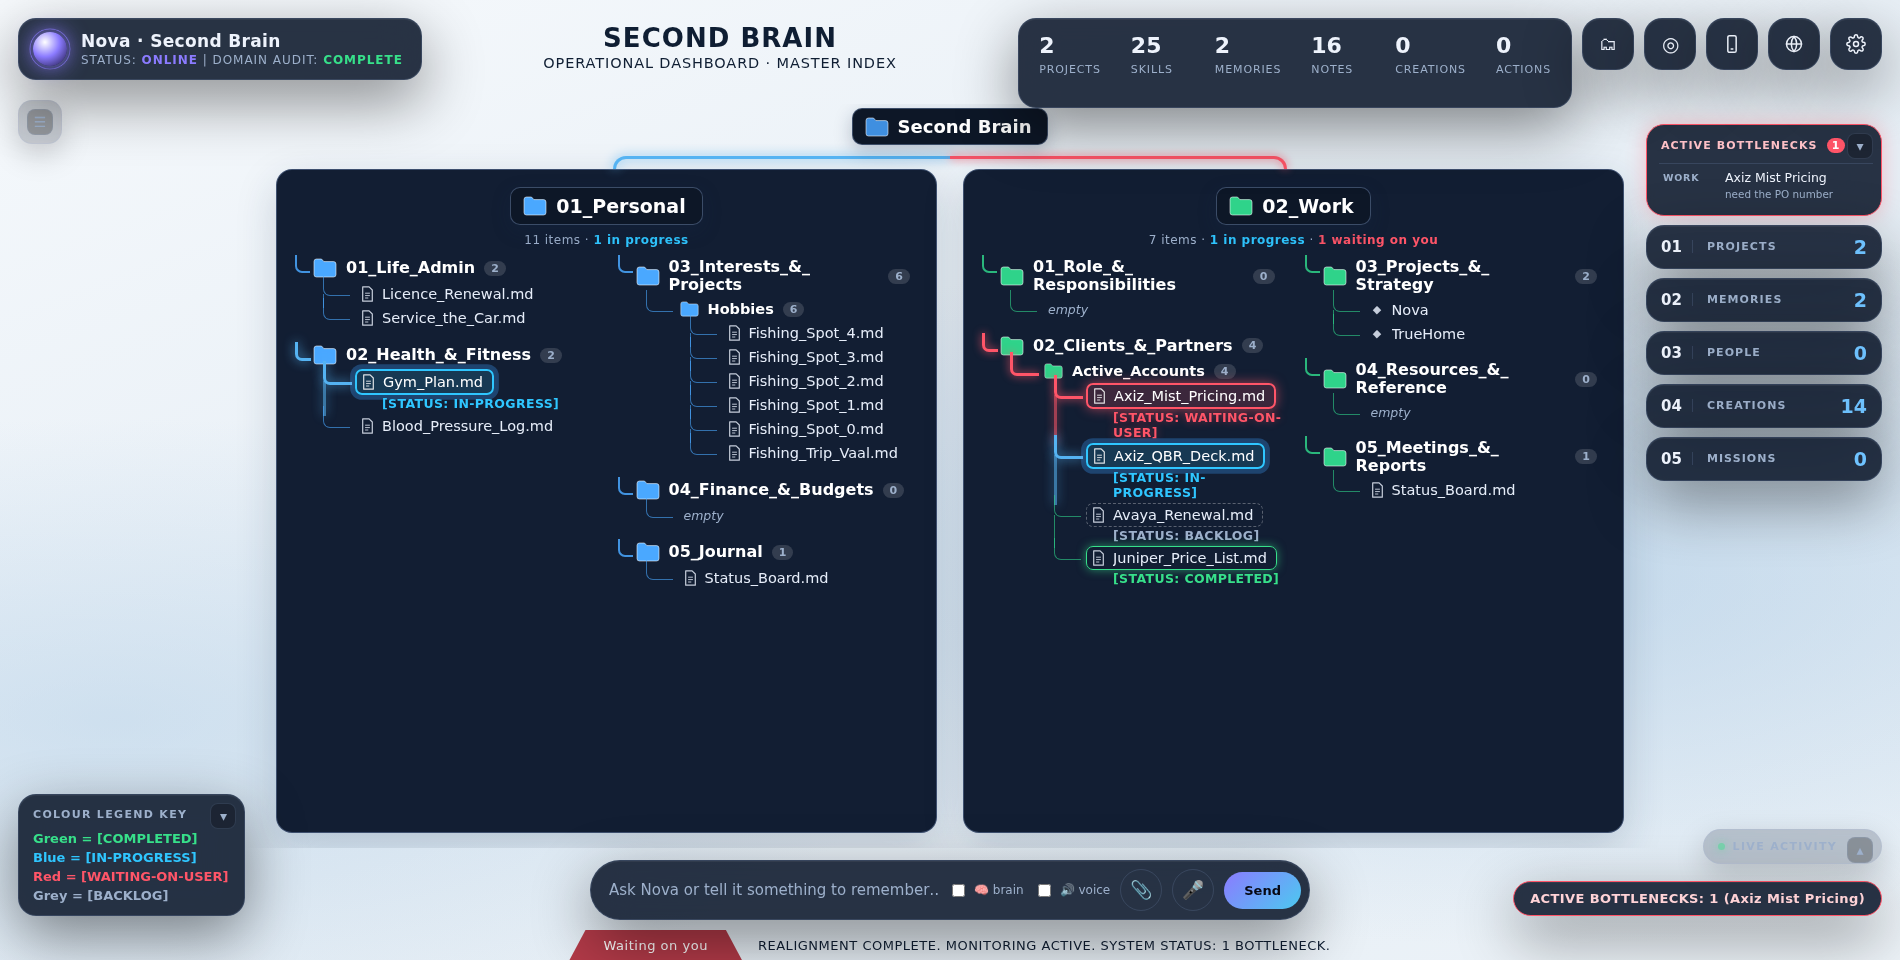
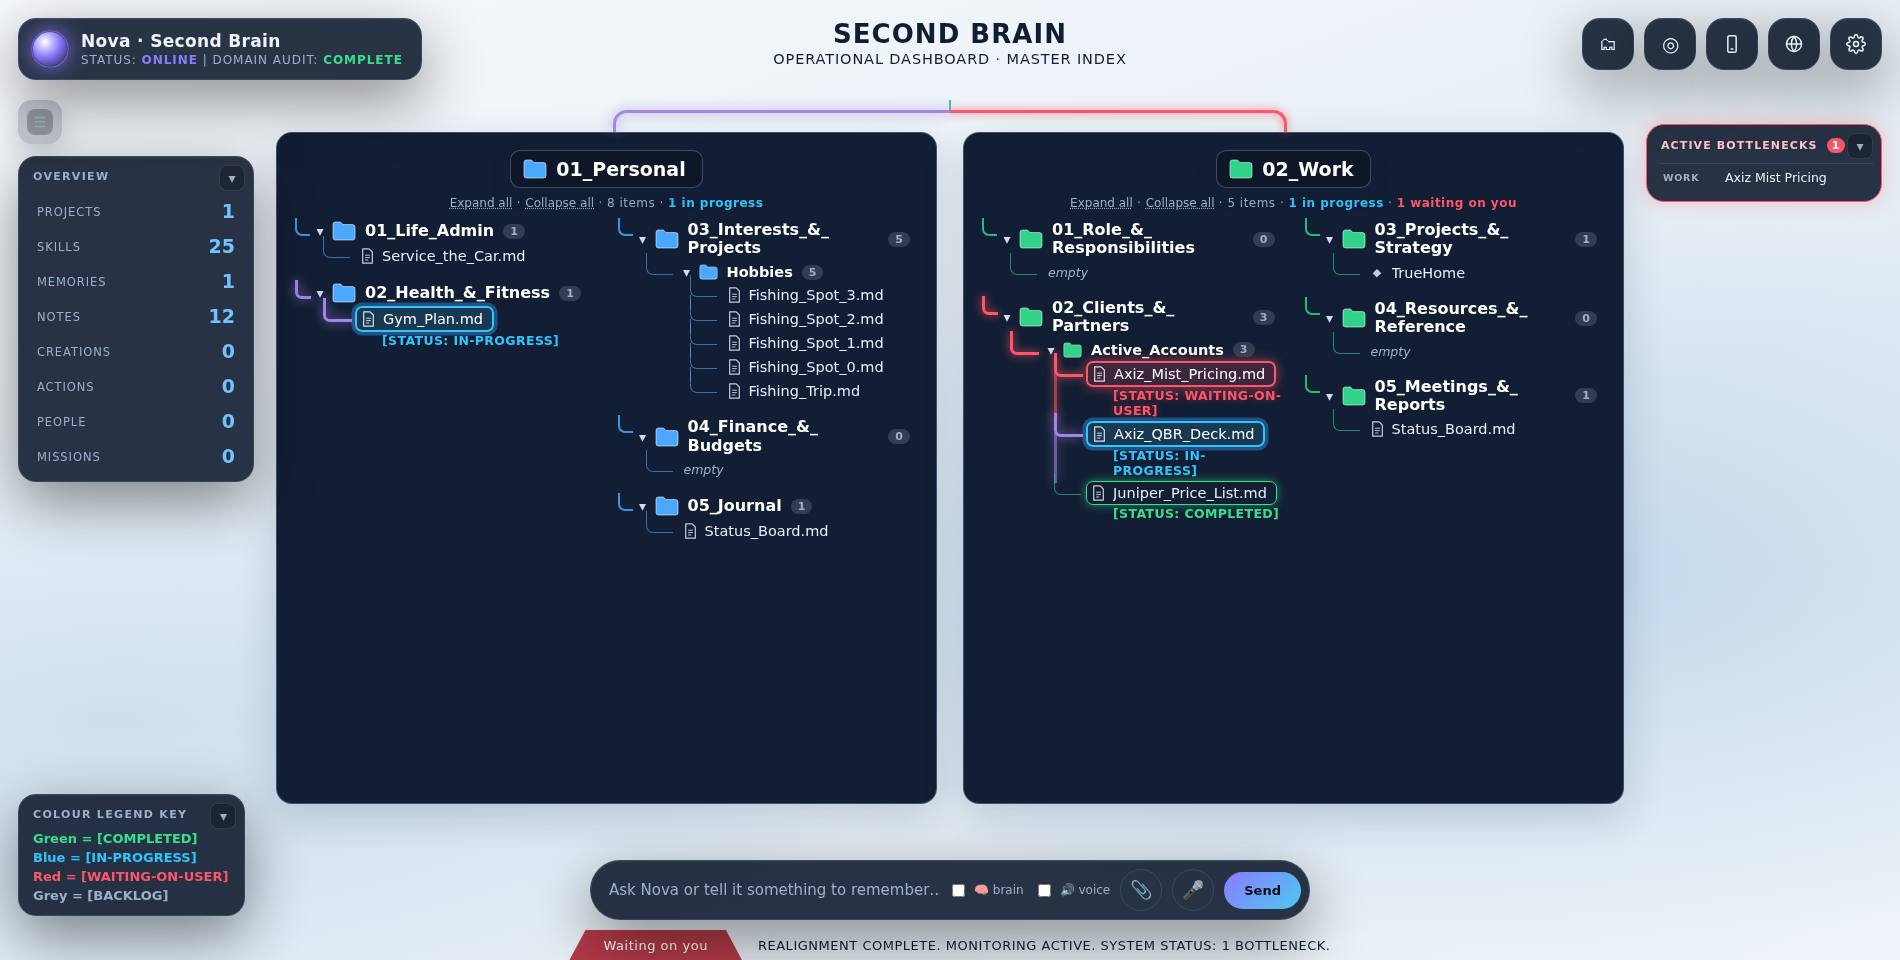
v2.20.0: master index tidy-up — live activity removed, overview block on the left (minimisable), title top-centre, one bottleneck block
Claude-Session: https://claude.ai/code/session_011xAHXLebJpLVKmU7RnfdZE

Changed region(s): [[0.0, 0.0, 1.0, 0.625], [0.1242, 0.8125, 0.8695, 0.875], [0.7763, 0.8438, 0.9937, 1.0]]

diff --git a/nova/dashboard/index.html b/nova/dashboard/index.html
@@ -142,8 +142,6 @@
       radial-gradient(ellipse 60% 45% at 6% 75%, rgba(175,205,230,.45), transparent 70%), linear-gradient(160deg, #f6f9fc, #e3ecf4 60%, #edf3f8); }
   body.light .vignette, body.light .grain { display: none; }
   body.light .empty { color: #4a5d75; }
-  @media (max-width: 1250px) { #tree { padding-right: 16px; padding-left: 16px; } .rcol { display: none; }
-    .rcol.show { display: flex; top: auto; bottom: 92px; max-height: 60vh; } .rcol.show #tiles { display: none; } }
   @media (max-width: 900px) {
     #tree { top: 118px; bottom: 106px; padding: 4px 10px 12px; }
     .panes { grid-template-columns: 1fr; gap: 30px; } .elbows { width: 0; height: 10px; }
@@ -752,7 +750,6 @@
   .legend.min { padding: 10px 44px 10px 14px; }
   .ask { bottom: 40px; }
   .feed { bottom: 96px; }
-  @media (min-width: 1251px) and (max-width: 1640px) { .bchip { display: none; } }
   @media (max-width: 900px) { .ask { bottom: 36px; } .rail { bottom: 108px; } }
   .ctx { position: fixed; z-index: 30; display: none; min-width: 230px; max-width: 300px; max-height: 80vh; overflow-y: auto; padding: 6px;
     border-radius: 12px; background: var(--glass-strong); border: 1px solid var(--line-strong); }
@@ -769,10 +766,30 @@
   .dir small.act { color: #fff; } .dir small.act.ip { background: var(--st-ip); color: #06202e; } .dir small.act.wait { background: var(--st-wait); }
   .pane .sum .fold { background: none; border: 0; padding: 0; color: var(--muted); font: inherit; cursor: pointer; text-decoration: underline dotted; }
   .pane .sum .fold:hover { color: #fff; }
+  /* v2.20: title top-centre, overview on the left, bottlenecks only top-right */
+  .mtitle { position: fixed; top: 20px; left: 50%; transform: translateX(-50%); z-index: 3; flex: none; padding: 0; visibility: visible !important; }
+  @media (max-width: 1180px) { .mtitle { display: none; } }
+  #tree { top: 96px; }
+  .root-wrap .stem { width: 2px; height: 10px; background: linear-gradient(var(--personal), var(--work)); display: block; }
+  .elbows { height: 22px; } .elbows i { margin-top: 0 !important; }
+  .stats { position: fixed; left: 18px; top: 156px; width: 236px; z-index: 3; display: block; padding: 38px 8px 8px; }
+  .stats .railhd { position: absolute; top: 13px; left: 14px; font: 600 11px var(--body); letter-spacing: .12em; text-transform: uppercase; color: var(--muted); }
+  .stats .statlist { display: grid; gap: 2px; }
+  .stats .stat { display: grid; grid-template-columns: 1fr auto; align-items: center; gap: 0 10px; padding: 7px 10px; min-width: 0; border-radius: 10px; }
+  .stats .stat .l { margin: 0; grid-column: 1; grid-row: 1; font-size: 11.5px; }
+  .stats .stat .n { grid-column: 2; grid-row: 1; font-size: 19px; color: #6fc3ff; }
+  .stats .stat .sub { grid-column: 1 / -1; min-height: 0; margin: 0; } .stats .stat .sub:empty { display: none; }
+  .stats.min { width: auto; padding: 10px 44px 10px 14px; cursor: pointer; } .stats.min .statlist { display: none; } .stats.min .railhd { position: static; }
+  .rail:not(.min) { z-index: 6; }
+  .rcol { max-height: none; }
+  @media (max-width: 1250px) { #tree { padding-left: 16px; padding-right: 16px; top: 150px; } .stats { top: 100px; left: 70px; }
+    .rcol { display: flex; top: 100px; width: auto; max-width: 236px; } .stats:not(.min), .bneck:not(.min) { z-index: 6; } }
+  @media (max-width: 900px) { .stats { display: none; } #tree { top: 118px; } .rcol { top: 66px; right: 10px; } .bneck:not(.has) { display: none; } }
 </style>
 </head>
 <body>
 <main id="tree" aria-label="Second Brain master index"></main>
+<div class="mtitle"><b>SECOND BRAIN</b><span>OPERATIONAL DASHBOARD · MASTER INDEX</span></div>
 <div class="vignette"></div>
 <div class="grain"></div>
 
@@ -784,16 +801,7 @@
       <div class="status">Status: <b id="status">connecting</b> <span class="aud">| Domain audit: <b id="audit">…</b></span></div>
     </div>
   </div>
-  <div class="mtitle" aria-hidden="true"><b>SECOND BRAIN</b><span>OPERATIONAL DASHBOARD · MASTER INDEX</span></div>
   <div class="right">
-  <div class="stats glass">
-    <div class="stat" data-open="project" title="Projects you haven't marked done — click to see and track them"><div class="n" id="s-proj">0</div><div class="l">Projects</div><div class="sub" id="s-proj-sub"></div></div>
-    <div class="stat" data-open="skills" title="Skills Nova can use — click for what each one does"><div class="n" id="s-skills">0</div><div class="l">Skills</div><div class="sub" id="s-skills-sub"></div></div>
-    <div class="stat" data-open="memories" title="Everything Nova has learned"><div class="n" id="s-mem">0</div><div class="l">Memories</div><div class="sub"></div></div>
-    <div class="stat" data-open="notes" title="Notes in your 2nd-brain vault"><div class="n" id="s-notes">0</div><div class="l">Notes</div><div class="sub"></div></div>
-    <div class="stat" data-open="creations" title="Files, sites, videos, ads… Nova made"><div class="n" id="s-art">0</div><div class="l">Creations</div><div class="sub"></div></div>
-    <div class="stat" data-open="actions" title="Every request and the steps Nova took"><div class="n" id="s-act">0</div><div class="l">Actions</div><div class="sub"></div></div>
-  </div>
     <button class="gear glass" id="filing-btn" title="Brain filing: 01_Personal / 02_Work — review moves and questions" aria-label="Brain filing" style="border:1px solid var(--line);cursor:pointer;font-size:18px;color:var(--text);position:relative">🗂<span class="badge" id="filing-badge"></span></button>
     <button class="gear glass" id="focus-btn" title="Focus mode — one thing at a time (F)" aria-label="Focus mode" style="border:1px solid var(--line);cursor:pointer;font-size:20px;color:var(--text)">◎</button>
     <button class="gear glass" id="phone-btn" title="Open Nova on your phone (Tailscale)" aria-label="Open on phone" style="border:1px solid var(--line);cursor:pointer"><svg width="20" height="20" viewBox="0 0 24 24" fill="none" stroke="currentColor" stroke-width="1.8" stroke-linecap="round"><rect x="7" y="2" width="10" height="20" rx="2"/><path d="M11 18h2"/></svg></button>
@@ -801,6 +809,21 @@
     <a class="gear glass" href="/settings" title="Settings" aria-label="Settings"><svg width="20" height="20" viewBox="0 0 24 24" fill="none" stroke="currentColor" stroke-width="1.8" stroke-linecap="round" stroke-linejoin="round"><circle cx="12" cy="12" r="3"/><path d="M19.4 15a1.7 1.7 0 0 0 .3 1.8l.1.1a2 2 0 1 1-2.8 2.8l-.1-.1a1.7 1.7 0 0 0-1.8-.3 1.7 1.7 0 0 0-1 1.5V21a2 2 0 1 1-4 0v-.1a1.7 1.7 0 0 0-1.1-1.5 1.7 1.7 0 0 0-1.8.3l-.1.1a2 2 0 1 1-2.8-2.8l.1-.1a1.7 1.7 0 0 0 .3-1.8 1.7 1.7 0 0 0-1.5-1H3a2 2 0 1 1 0-4h.1a1.7 1.7 0 0 0 1.5-1.1 1.7 1.7 0 0 0-.3-1.8l-.1-.1a2 2 0 1 1 2.8-2.8l.1.1a1.7 1.7 0 0 0 1.8.3H9a1.7 1.7 0 0 0 1-1.5V3a2 2 0 1 1 4 0v.1a1.7 1.7 0 0 0 1 1.5 1.7 1.7 0 0 0 1.8-.3l.1-.1a2 2 0 1 1 2.8 2.8l-.1.1a1.7 1.7 0 0 0-.3 1.8V9a1.7 1.7 0 0 0 1.5 1H21a2 2 0 1 1 0 4h-.1a1.7 1.7 0 0 0-1.5 1z"/></svg></a>
   </div>
 </header>
+
+<aside class="stats glass" id="stats" aria-label="Overview">
+  <div class="railhd">Overview</div>
+  <button class="minbtn" id="stats-min" title="Minimise" aria-label="Minimise overview">▾</button>
+  <div class="statlist">
+    <div class="stat" data-open="project" title="Projects you haven't marked done — click to see and track them"><div class="n" id="s-proj">0</div><div class="l">Projects</div><div class="sub" id="s-proj-sub"></div></div>
+    <div class="stat" data-open="skills" title="Skills Nova can use — click for what each one does"><div class="n" id="s-skills">0</div><div class="l">Skills</div><div class="sub" id="s-skills-sub"></div></div>
+    <div class="stat" data-open="memories" title="Everything Nova has learned"><div class="n" id="s-mem">0</div><div class="l">Memories</div><div class="sub"></div></div>
+    <div class="stat" data-open="notes" title="Notes in your 2nd-brain vault"><div class="n" id="s-notes">0</div><div class="l">Notes</div><div class="sub"></div></div>
+    <div class="stat" data-open="creations" title="Files, sites, videos, ads… Nova made"><div class="n" id="s-art">0</div><div class="l">Creations</div><div class="sub"></div></div>
+    <div class="stat" data-open="actions" title="Every request and the steps Nova took"><div class="n" id="s-act">0</div><div class="l">Actions</div><div class="sub"></div></div>
+    <div class="stat" data-open="people" title="Everyone you deal with — one card each"><div class="n" id="s-people">0</div><div class="l">People</div><div class="sub"></div></div>
+    <div class="stat" data-open="missions" title="Goals Nova works on by itself"><div class="n" id="s-miss">0</div><div class="l">Missions</div><div class="sub"></div></div>
+  </div>
+</aside>
 
 <aside class="rail glass" id="rail">
   <div class="railhd"><i></i>Brain</div>
@@ -846,7 +869,6 @@
   <button class="minbtn" id="bneck-min" title="Minimise" aria-label="Minimise bottlenecks">▾</button>
   <ul id="bneck-list"></ul>
 </section>
-<div id="tiles"></div>
 </div>
 
 <section class="legend glass" id="legend" aria-label="Colour legend key">
@@ -854,15 +876,10 @@
   <button class="minbtn" id="legend-min" title="Minimise" aria-label="Minimise colour key">▾</button>
   <div id="legend-body"><div class="lk c">Green = [COMPLETED]</div><div class="lk i">Blue = [IN-PROGRESS]</div><div class="lk w">Red = [WAITING-ON-USER]</div><div class="lk b">Grey = [BACKLOG]</div></div>
 </section>
-<button class="bchip glass" id="bneck-chip">ACTIVE BOTTLENECKS: 0</button>
 <div class="ctx glass" id="ctx" role="menu"></div>
 <div class="ticker" id="ticker"><span class="tab" id="ticker-state">System optimized</span><span class="msg" id="ticker-text">MONITORING ACTIVE.</span></div>
 
-<section class="feed glass" id="feed">
-  <button class="minbtn" id="feed-min" title="Minimise" aria-label="Minimise live activity">▾</button>
-  <h3><span class="live"></span>Live activity <span class="newn" id="feed-new"></span></h3>
-  <ul id="feed-list"></ul>
-</section>
+<section id="feed" hidden><span id="feed-new"></span><ul id="feed-list"></ul></section>
 
 <div class="focus" id="focus" aria-label="Focus mode"><div class="fx" id="fx"></div></div>
 <div class="reply glass" id="reply"></div>
@@ -1014,8 +1031,7 @@ function renderTree() {
         m.unfiled.sort(order).slice(0, rowLimit).map(rowHtml).join("")}${m.unfiled.length > rowLimit ? `<li class="f more"><button class="trow" data-filing="1">+ ${m.unfiled.length - rowLimit} more — open the filing review</button></li>` : ""}</ul></li>` : "") +
       dirs.map((x) => dirHtml(x, 0)).join("") + `</ul></section>`;
   }
-  const root = `<div class="root-wrap"><button class="rootb" id="rootb">${FOLDER}<span>Second Brain</span></button>` +
-    `<div class="elbows"><i class="l"${flows[DOMAINS[0]] ? ` data-flow="${flows[DOMAINS[0]]}"` : ""}></i><i class="r"${flows[DOMAINS[1]] ? ` data-flow="${flows[DOMAINS[1]]}"` : ""}></i></div></div>`;
+  const root = `<div class="root-wrap"><i class="stem"></i><div class="elbows"><i class="l"${flows[DOMAINS[0]] ? ` data-flow="${flows[DOMAINS[0]]}"` : ""}></i><i class="r"${flows[DOMAINS[1]] ? ` data-flow="${flows[DOMAINS[1]]}"` : ""}></i></div></div>`;
   const html = root + `<div class="panes">${h}</div>`;
   if (html !== lastHtml) {
     const keep = [...treeEl.querySelectorAll(".pane")].map((p) => p.scrollTop), top = treeEl.scrollTop;
@@ -1046,7 +1062,6 @@ treeEl.addEventListener("click", (e) => {
   if (filing) return loadFiling(true);
   if (more) { const id = more.dataset.more; expanded.has(id) ? expanded.delete(id) : expanded.add(id); return renderTree(); }
   if (dom) { dom.closest(".pane").scrollTo({ top: 0, behavior: "smooth" }); return; }
-  if (e.target.closest("#rootb")) { closePanel(); treeEl.scrollTo({ top: 0, behavior: "smooth" }); return; }
   const dir = e.target.closest("button.dir");
   if (dir) {
     const id = dir.parentElement.dataset.dir;
@@ -1120,10 +1135,7 @@ function flyTo(n) {
 function renderBottlenecks() {
   const list = data.bottlenecks || [], el = $("bneck");
   el.classList.toggle("has", list.length > 0);
-  const first = list[0] ? ` (${list[0].text.length > 26 ? list[0].text.slice(0, 25) + "…" : list[0].text})` : "";
   $("bneck-n").textContent = list.length;
-  $("bneck-chip").textContent = `ACTIVE BOTTLENECKS: ${list.length}${first}`;
-  $("bneck-chip").classList.toggle("has", list.length > 0);
   $("bneck-list").innerHTML = list.length ? list.map((b, i) =>
     `<li data-i="${i}" class="${b.id ? "link" : ""}"><span class="dm">${b.domain === DOMAINS[0] ? "Personal" : "Work"}</span><span class="t">${esc(b.text)}${b.why ? `<small>${esc(b.why)}</small>` : ""}</span></li>`).join("")
     : `<li class="none">Nothing is waiting on you.</li>`;
@@ -1134,9 +1146,7 @@ function renderBottlenecks() {
   $("ticker-text").textContent = `${pending ? `REALIGNMENT PENDING: ${pending} ITEM${pending === 1 ? "" : "S"} AWAIT YOUR APPROVAL.` : "REALIGNMENT COMPLETE."} MONITORING ACTIVE. SYSTEM STATUS: ${list.length ? `${list.length} BOTTLENECK${list.length === 1 ? "" : "S"}` : "STABLE"}.`;
   $("ticker").classList.toggle("warn", list.length > 0 || !!pending);
   const count = (f) => data.nodes.filter(f).length;
-  const tiles = [["project", "Projects", count((n) => n.isProject || n.kind === "project")], ["memories", "Memories", count((n) => MEMORY_KINDS.includes(n.kind) && !n.isPerson)],
-    ["people", "People", count((n) => n.isPerson)], ["creations", "Creations", count((n) => familyOf(n.kind) === "cube")], ["missions", "Missions", count((n) => n.kind === "mission")]];
-  $("tiles").innerHTML = tiles.map(([k, label, n], i) => `<button class="tile glass" data-open="${k}"><span class="tn">0${i + 1}</span><span class="tl">${label}</span><b>${n}</b></button>`).join("");
+  $("s-people").textContent = count((n) => n.isPerson); $("s-miss").textContent = count((n) => n.kind === "mission");
 }
 function openBottleneck(i) {
   const b = (data.bottlenecks || [])[i]; if (!b?.id) return;
@@ -1144,12 +1154,9 @@ function openBottleneck(i) {
   const n = nodeById.get(b.id); if (n) { flyTo(n); select(n); } else openById(b.id);
 }
 $("bneck-list").addEventListener("click", (e) => { const li = e.target.closest("li[data-i]"); if (li) openBottleneck(+li.dataset.i); });
-$("bneck-chip").onclick = () => {
-  if ((data.bottlenecks || []).length === 1) return openBottleneck(0);
-  $("bneck").classList.remove("min"); document.querySelector(".rcol").classList.toggle("show");
-};
 $("bneck-min").onclick = (e) => { e.stopPropagation(); $("bneck").classList.toggle("min"); };
-$("tiles").addEventListener("click", (e) => { const b = e.target.closest("[data-open]"); if (b) openTopic(b.dataset.open); });
+$("bneck").addEventListener("click", (e) => { if ($("bneck").classList.contains("min") && !e.target.closest("#bneck-min")) $("bneck").classList.remove("min"); });
+if (innerWidth < 1250) $("bneck").classList.add("min");
 window.novaTree = { data: () => data, render: renderTree };
 
 // light up everything that belongs to one project / person
@@ -1477,18 +1484,18 @@ function setMin(id, on) {
   store_.set("nova.min." + id, on ? "1" : "0");
   if (id === "rail") { btn.textContent = on ? "☰" : "‹"; btn.title = on ? "Show panel (M)" : "Minimise (M)"; }
   else if (id === "legend") { btn.textContent = on ? "▴" : "▾"; btn.title = on ? "Show colour key" : "Minimise"; }
-  else { btn.textContent = on ? "▴" : "▾"; btn.title = on ? "Show live activity" : "Minimise"; if (!on) { feedNew = 0; $("feed-new").classList.remove("show"); } }
+  else { btn.textContent = on ? "▴" : "▾"; btn.title = on ? "Show the overview" : "Minimise"; }
 }
-for (const id of ["rail", "feed", "legend"]) {
+for (const id of ["rail", "stats", "legend"]) {
   $(id + "-min").onclick = (e) => { e.stopPropagation(); setMin(id, !$(id).classList.contains("min")); };
   $(id).addEventListener("click", () => { if ($(id).classList.contains("min")) setMin(id, false); });
   const saved = store_.get("nova.min." + id);
-  if (saved === "1" || (saved == null && (id !== "legend" || innerWidth < 900))) setMin(id, true);    // the index gets the room
+  if (saved === "1" || (saved == null && (id === "rail" || innerWidth < 1250))) setMin(id, true);    // the index gets the room
 }
 document.addEventListener("keydown", (e) => {
   if ((e.key === "m" || e.key === "M") && !e.ctrlKey && !e.metaKey && !e.altKey && !/INPUT|TEXTAREA|SELECT/.test(document.activeElement?.tagName || "")) {
     const all = !$("rail").classList.contains("min");
-    setMin("rail", all); setMin("feed", all); setMin("legend", all);
+    setMin("rail", all); setMin("stats", all); setMin("legend", all);
   }
 });
 
@@ -1694,7 +1701,7 @@ async function poll() {
         ul.prepend(li);
       }
       while (ul.children.length > 80) ul.lastChild.remove();
-      if (!first && $("feed").classList.contains("min")) {
+      if (false) {
         feedNew += r.events.length;
         $("feed-new").textContent = feedNew > 99 ? "99+" : feedNew; $("feed-new").classList.add("show");
       }

diff --git a/CHANGELOG.md b/CHANGELOG.md
@@ -4,6 +4,15 @@ All notable changes. Versions are Git tags; roll back with `rollback.bat` or "No
 
 ## [Unreleased]
 
+## [2.20.0] — 2026-10-02
+### Changed — tidier Master Index
+- **Live activity panel removed** — the status lines on the index show what is happening.
+- **Overview block on the left** (Projects, Skills, Memories, Notes, Creations, Actions, People, Missions) with a
+  minimise button; click a row to list those items. It replaces the counters in the header and on the right.
+- **Page title top-centre:** SECOND BRAIN · OPERATIONAL DASHBOARD · MASTER INDEX. The small "Second Brain" block under
+  it is gone; the lines to both sides start from the title.
+- **One bottleneck block only** (top right); the duplicate chip at the bottom right is removed.
+
 ## [2.19.1] — 2026-10-02
 ### Changed — folders expand and collapse
 - Every folder and sub-folder has a ▸ / ▾ arrow: click to collapse or expand it. **Expand all / Collapse all** per
